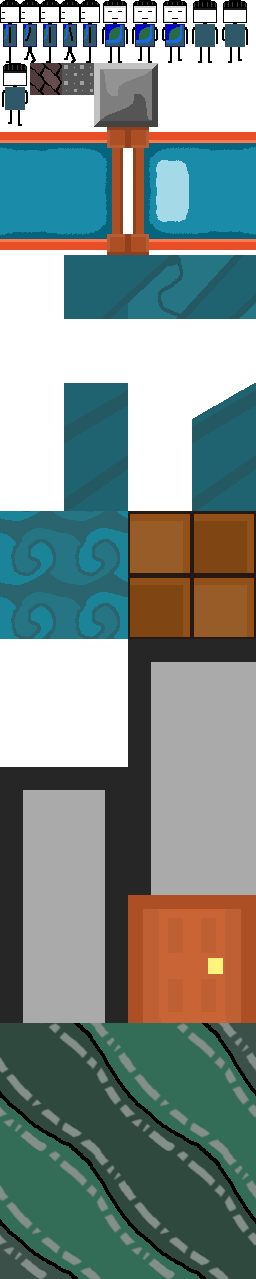
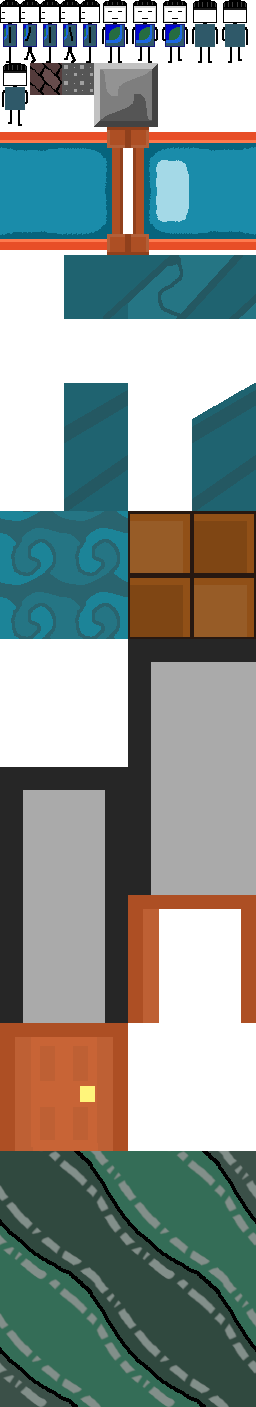
added a door

diff --git a/assets/ts/lib/md-framework/shell.ts b/assets/ts/lib/md-framework/shell.ts
@@ -1,9 +1,11 @@
 import { Application, Assets, BindableTexture, Container, Sprite, Spritesheet, SpritesheetData, Texture, TilingSprite } from "pixi.js";
-import { MDgame, MDgameOpts, MDgameType } from "./game";
 import { GMOutput, Keymap } from "../keymap";
 import { PWS } from "../pw-objects";
 import { PW } from "../physics";
 import { degToRad } from "../util";
+import { MDgame, MDgameType } from "./game";
+import { mdshell } from "../../constants";
+import { parseBlockComponents } from "./components";
 
 export interface XYWH {
     x: number;
@@ -20,6 +22,7 @@ export interface BlockInfo {
     isPassable?: boolean;
     name: string;
     texture: string;
+    components?: Record<string, Record<string, any>>;
 }
 
 export interface ModInfo {
@@ -39,13 +42,13 @@ interface MDshellOpts {
     app: Application;
 }
 
-interface BgObj extends XYWH {
+export interface BgObj extends XYWH {
     sprite: Container;
     type: string;
     rotation: number;
 }
 
-interface FgObj extends BgObj {
+export interface FgObj extends BgObj {
     pwb: PWS;
 }
 
@@ -66,9 +69,6 @@ export class MDshell {
     levelGenerator = new Keymap();
     blocks: Record<string, BlockInfo> = {};
     imageBlobSize: number;
-
-    pwObjects: Record<number, FgObj> = {};
-    bgObjects: Record<number, BgObj> = {};
 
     internalCanvas = new OffscreenCanvas(256, 256);
     ictx: OffscreenCanvasRenderingContext2D;
@@ -201,7 +201,8 @@ export class MDshell {
         return s;
     }
 
-    createBlock(x: number, y: number, w: number, h: number, name: string, rotation: number = 0): Container {
+    createBlock
+    (x: number, y: number, w: number, h: number, name: string, rotation: number = 0): {isPassable: boolean, id: number} {
         const t = this.getTexture(name);
         const s = this.createMergedSprite(x * this.blockSize, y * this.blockSize, w, h, t, rotation);
         const type =  this.blocks[name].texture;
@@ -211,7 +212,7 @@ export class MDshell {
             this.game.groups.bg.addChild(s);
 
             const id = this.game.getNewId();
-            this.bgObjects[id] = {
+            this.game.bgObjects[id] = {
                 sprite: s,
                 x,
                 y,
@@ -228,13 +229,15 @@ export class MDshell {
                     type,
                 });
             });
+
+            return {isPassable, id};
         } else {
             this.game.groups.fg.addChild(s);
 
             const pws = 
             new PWS(x * this.blockSize, y * this.blockSize, w * this.blockSize, h * this.blockSize, type);
 
-            this.pwObjects[pws.id] = {
+            this.game.pwObjects[pws.id] = {
                 x,
                 y,
                 w,
@@ -256,20 +259,36 @@ export class MDshell {
 
                 this.pw.addStatic(x, y, pws);
             });
-        }
 
-        return s;
+            return {isPassable: false, id: pws.id};
+        }
     }
 
     private registerBlock(name: string, block: BlockInfo) {
+        var hasComponents = false;
         block.isPassable ??= false;
+
+        if(block.components) {
+            hasComponents = true;
+            if(block.isPassable) return MDshell.Err(
+                `block "${name}" has a component while being passive`
+            );
+        }
+
+        block.components ||= {};
+
         this.blocks[name] = block;
 
-        this.levelGenerator.key(block.texture, 
-            (x, y, w, h, rotation) => {
-                this.createBlock(x, y, w, h, block.texture, degToRad(rotation));
-            }
-        );
+        if(hasComponents) {
+            this.levelGenerator.key(block.texture, (x, y, w, h, rotation) => {
+                const output = this.createBlock(x, y, w, h, block.texture, degToRad(rotation)); 
+                parseBlockComponents(this.game, block.components!, output.id);
+            });
+        } else {
+            this.levelGenerator.key(block.texture, (x, y, w, h, rotation) => {
+                this.createBlock(x, y, w, h, block.texture, degToRad(rotation)); 
+            });
+        }
     }
 
     async getBlocksAsImages() {    
@@ -306,19 +325,19 @@ export class MDshell {
     }
 
     destroyCurrentLevel() {
-        for(const i in this.bgObjects) {
-            const obj = this.bgObjects[i];
+        for(const i in this.game.bgObjects) {
+            const obj = this.game.bgObjects[i];
 
             obj.sprite?.destroy();
-            delete this.bgObjects[i];
+            delete this.game.bgObjects[i];
         }
 
-        for(const i in this.pwObjects) {
-            const obj = this.pwObjects[i];
+        for(const i in this.game.pwObjects) {
+            const obj = this.game.pwObjects[i];
 
             obj.sprite?.destroy();
             obj.pwb.destroy();
-            delete this.bgObjects[i];
+            delete this.game.bgObjects[i];
         }
 
         //this.game.groups.static.removeChildren();

diff --git a/assets/ts/lib/physics.ts b/assets/ts/lib/physics.ts
@@ -89,6 +89,8 @@ export class PW {
         }
     }
 
+    private recentCollisions: Record<number, PWS> = {}
+
     private findStaticCollisions(moving: PWD): number {
         var collisionAmnt = 0;
         const x = Math.floor(moving.x / this.blockSize);
@@ -102,13 +104,35 @@ export class PW {
         const bottomRight = this.staticGrid.get(maxX, maxY);
 
         const collision = [topLeft, topRight, bottomRight, bottomLeft];
-        for(const col of collision) 
+        for(const id in this.recentCollisions) {
+            this.recentCollisions[id].hasCollidedRecently = false;
+        }
+
+        loop: for(const col of collision) 
             if(col) {
-                if(col.testAABB(moving)) {
+                if(col.hasCollisionLeaveEvents) {
+                    col.hasCollidedRecently = true;
+                    this.recentCollisions[col.id] = col;
+                }
+                
+                //if(col.testAABB(moving)) {
                     collisionAmnt++;
+                    for(const f of col.onCollide) if(f(col)) continue loop;
+                    
                     this.separate(moving, col);
+                //}
+            }
+
+        for(const id in this.recentCollisions) {
+            const block = this.recentCollisions[id];
+            if(!block.hasCollidedRecently) {
+
+                if(!block.testSmallAABB(moving)) {
+                for(const f of block.onCollisionLeave) f(block);
+                delete this.recentCollisions[id];
                 }
             }
+        }
 
         return collisionAmnt;
     }

diff --git a/assets/ts/lib/md-framework/components.ts b/assets/ts/lib/md-framework/components.ts
@@ -1,0 +1,32 @@
+import { Texture } from "pixi.js";
+import { MDgame } from "./game";
+import { mdshell } from "../../constants";
+
+export interface BlockComponent {
+    door?: {}
+}
+
+export function parseBlockComponents(game: MDgame, components: BlockComponent, id: number) {
+    const block = game.pwObjects[id].pwb;
+
+    if(components.door) {
+        block.hasCollisionLeaveEvents = true;
+        var isOpen = false;
+
+        block.onCollide.push(pws => {
+            if(!isOpen) {
+                isOpen = true;
+                pws.sprite!.texture = mdshell.getTexture("wood-door-open.png");
+            }
+
+            return true;
+        });
+
+        block.onCollisionLeave.push(pws => {
+            if(isOpen) {
+                isOpen = false;
+                pws.sprite!.texture = mdshell.getTexture("wood-door.png");
+            }
+        });
+    }
+}

diff --git a/assets/ts/game/dev/level-editor.ts b/assets/ts/game/dev/level-editor.ts
@@ -84,15 +84,15 @@ export function finalizeEdits() {
 export function copyLevel() {
     const arr: LevelJSONoutput[] = [];
 
-    for(const id in mdshell.pwObjects) {
-        const {x, y, w, h, rotation, type} = mdshell.pwObjects[id];
+    for(const id in mdshell.game.pwObjects) {
+        const {x, y, w, h, rotation, type} = mdshell.game.pwObjects[id];
         const rot = radToDeg(rotation);
 
         arr.push({x, y, w, h, rotation: rot, type});
     }
 
-    for(const id in mdshell.bgObjects) {
-        const {x, y, w, h, rotation, type} = mdshell.bgObjects[id];
+    for(const id in mdshell.game.bgObjects) {
+        const {x, y, w, h, rotation, type} = mdshell.game.bgObjects[id];
         const rot = radToDeg(rotation);
 
         arr.push({x, y, w, h, rotation: rot, type});

diff --git a/assets/ts/lib/pw-objects.ts b/assets/ts/lib/pw-objects.ts
@@ -56,6 +56,15 @@ export class PWB {
         && this.maxY > o.y;
     }
 
+    private SMALL_VAL = -10;
+
+    testSmallAABB(o: AnyObj) {
+        return this.x+this.SMALL_VAL < o.maxX 
+        && this.maxX-this.SMALL_VAL > o.x
+        && this.y+this.SMALL_VAL < o.maxY 
+        && this.maxY-this.SMALL_VAL > o.y;
+    }
+
     testAABBminX(o: AnyObj): boolean {
         return this.x < o.maxX;
     }
@@ -129,6 +138,12 @@ export class PWS extends PWB {
         this.id = getNewID();
         this.type = type;
     }
+
+    hasCollidedRecently: boolean = false;
+    hasCollisionLeaveEvents: boolean = false;
+
+    onCollisionLeave: ((pws: PWS) => void)[] = [];
+    onCollide: ((pws: PWS) => boolean | void)[] = [];
 }
 
 // export class PWK extends PWB {

diff --git a/assets/ts/lib/md-framework/game.ts b/assets/ts/lib/md-framework/game.ts
@@ -1,5 +1,7 @@
 import { Container } from "pixi.js";
 import { MDmatrix } from "../util";
+import { PWB, PWS } from "../pw-objects";
+import { BgObj, FgObj, MDshell } from "./shell";
 
 export interface GridBlockData {
     name: string;
@@ -19,6 +21,9 @@ type MDgameGridType = "fg" | "bg";
 // world container -> view -> static -> bg and fg
 
 export class MDgame {
+    pwObjects: Record<number, FgObj> = {};
+    bgObjects: Record<number, BgObj> = {};
+
     container = new Container();
     gameType: MDgameType;
     spawnX: number = 0;
